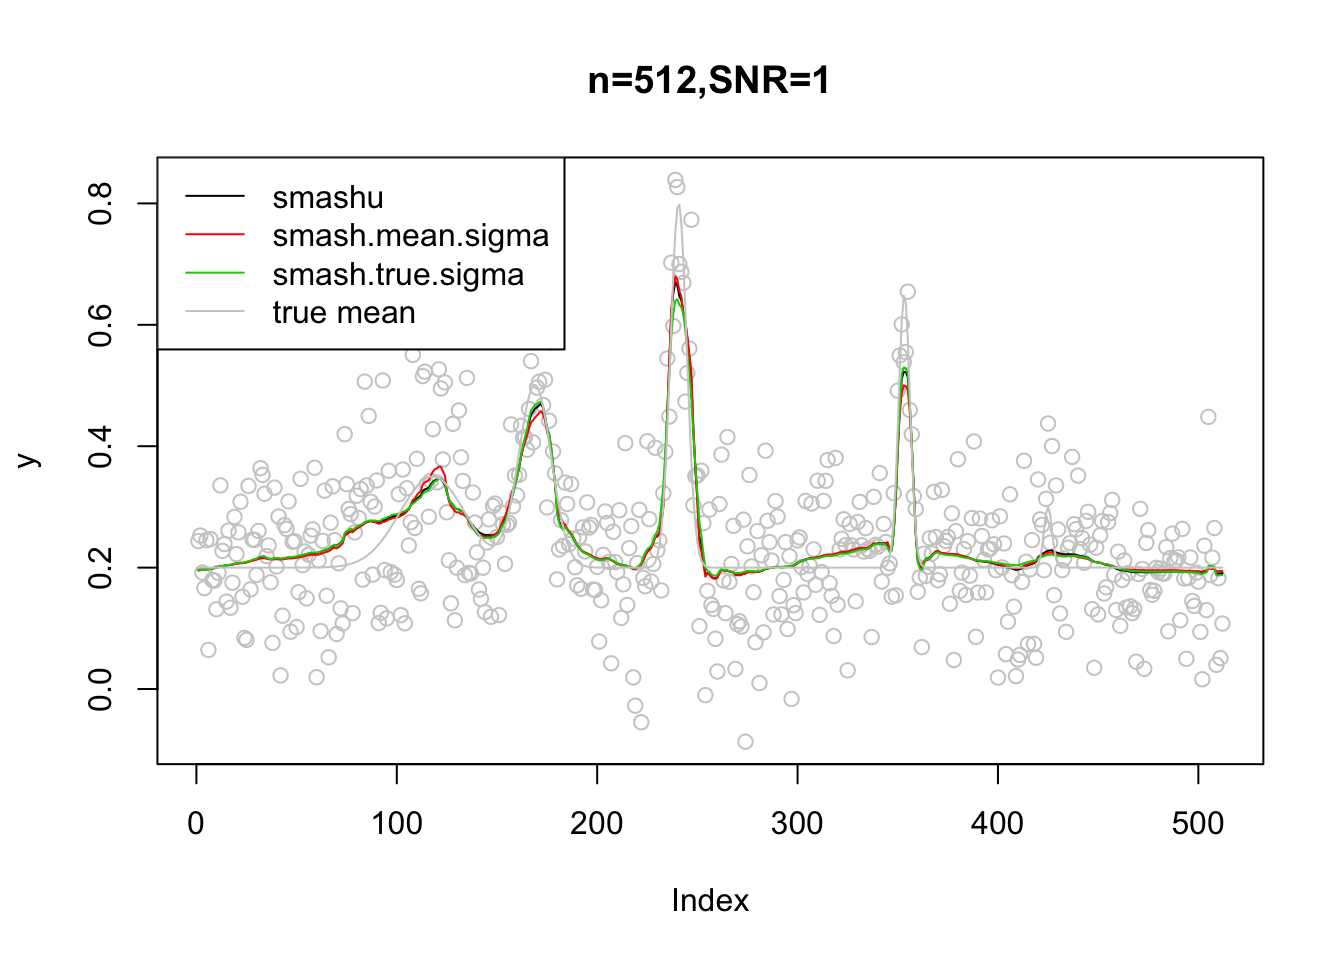
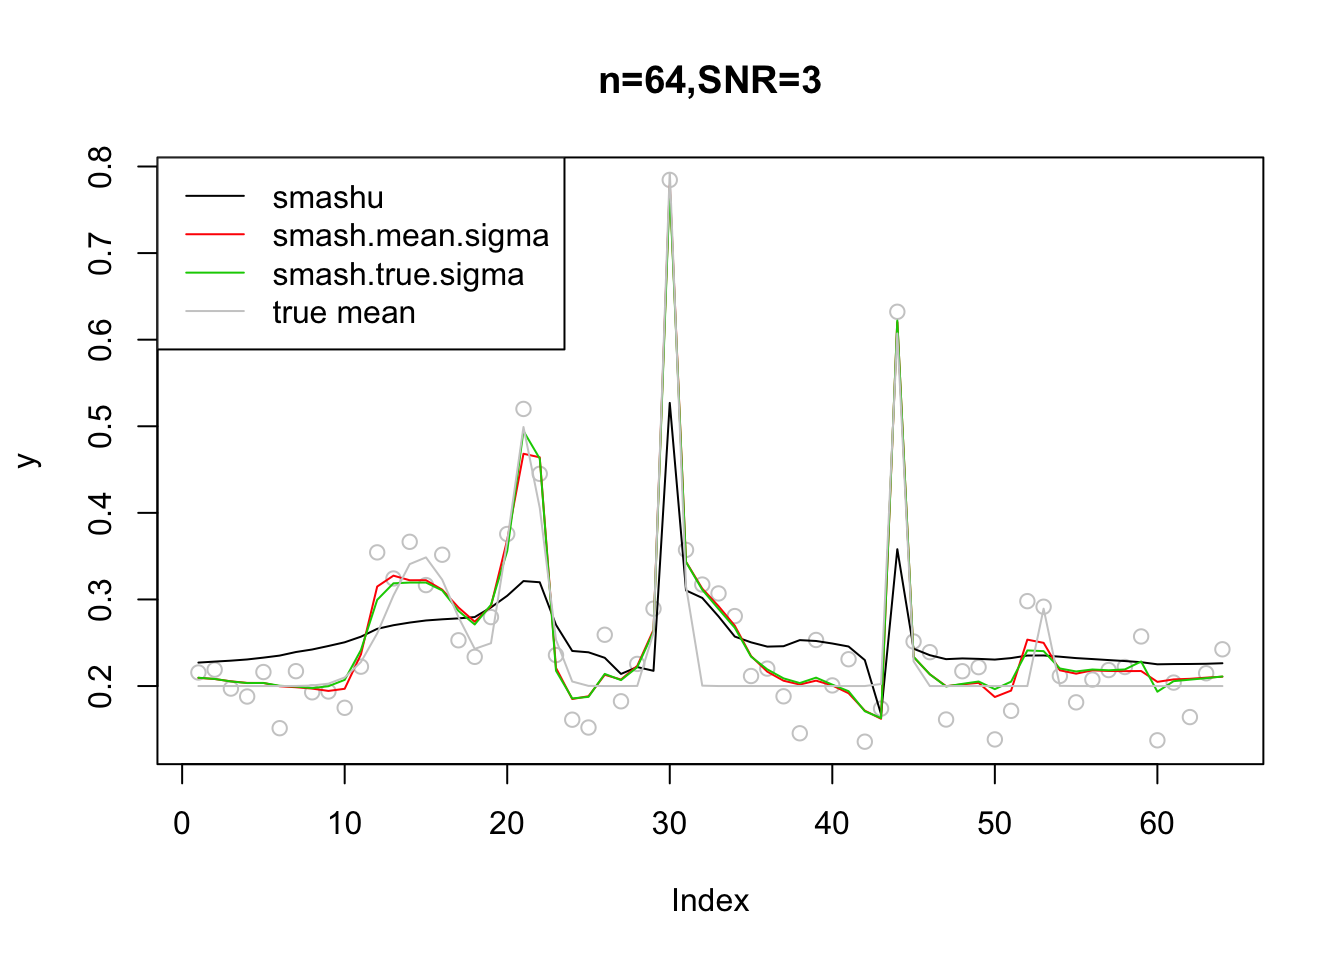
Build site.

diff --git a/docs/smashrobust.html b/docs/smashrobust.html
@@ -364,7 +364,7 @@ div.section {
 </details>
 </li>
 <li>
-<p><details> <summary> <strong style="color:blue;">✔</strong> <strong>Repository version:</strong> <a href="https://github.com/DongyueXie/smash-gen/tree/a8961315313b9029f9786fbdc484fa24d5af92cf" target="_blank">a896131</a> </summary></p>
+<p><details> <summary> <strong style="color:blue;">✔</strong> <strong>Repository version:</strong> <a href="https://github.com/DongyueXie/smash-gen/tree/4f4e8fc606af5fc158dda07ef3cc6acc7e2bea2d" target="_blank">4f4e8fc</a> </summary></p>
 Great! You are using Git for version control. Tracking code development and connecting the code version to the results is critical for reproducibility. The version displayed above was the version of the Git repository at the time these results were generated. <br><br> Note that you need to be careful to ensure that all relevant files for the analysis have been committed to Git prior to generating the results (you can use <code>wflow_publish</code> or <code>wflow_git_commit</code>). workflowr only checks the R Markdown file, but you know if there are other scripts or data files that it depends on. Below is the status of the Git repository when the results were generated:
 <pre><code>
 Ignored files:
@@ -405,6 +405,40 @@ Message
 </tr>
 </thead>
 <tbody>
+<tr>
+<td style="text-align:left;">
+Rmd
+</td>
+<td style="text-align:left;">
+<a href="https://github.com/DongyueXie/smash-gen/blob/4f4e8fc606af5fc158dda07ef3cc6acc7e2bea2d/analysis/smashrobust.Rmd" target="_blank">4f4e8fc</a>
+</td>
+<td style="text-align:left;">
+Dongyue Xie
+</td>
+<td style="text-align:left;">
+2018-10-02
+</td>
+<td style="text-align:left;">
+smash robust
+</td>
+</tr>
+<tr>
+<td style="text-align:left;">
+html
+</td>
+<td style="text-align:left;">
+<a href="https://cdn.rawgit.com/DongyueXie/smash-gen/aacfc46a0daa47a2fc194d4b986a7002f85784d8/docs/smashrobust.html" target="_blank">aacfc46</a>
+</td>
+<td style="text-align:left;">
+Dongyue Xie
+</td>
+<td style="text-align:left;">
+2018-10-02
+</td>
+<td style="text-align:left;">
+Build site.
+</td>
+</tr>
 <tr>
 <td style="text-align:left;">
 Rmd
@@ -526,15 +560,75 @@ lines(smash.gaus(y,sigma.t),col=3)
 lines(mu.t,col=&#39;grey80&#39;)
 legend(&#39;topleft&#39;,c(&#39;smashu&#39;,&#39;smash.mean.sigma&#39;,&#39;smash.true.sigma&#39;,&#39;true mean&#39;),col=c(1,2,3,&#39;grey80&#39;),lty=c(1,1,1,1))</code></pre>
 <p><img src="figure/smashrobust.Rmd/unnamed-chunk-2-1.png" width="672" style="display: block; margin: auto;" /></p>
+<details> <summary><em>Expand here to see past versions of unnamed-chunk-2-1.png:</em></summary>
+<table style="border-collapse:separate; border-spacing:5px;">
+<thead>
+<tr>
+<th style="text-align:left;">
+Version
+</th>
+<th style="text-align:left;">
+Author
+</th>
+<th style="text-align:left;">
+Date
+</th>
+</tr>
+</thead>
+<tbody>
+<tr>
+<td style="text-align:left;">
+<a href="https://github.com/DongyueXie/smash-gen/blob/aacfc46a0daa47a2fc194d4b986a7002f85784d8/docs/figure/smashrobust.Rmd/unnamed-chunk-2-1.png" target="_blank">aacfc46</a>
+</td>
+<td style="text-align:left;">
+Dongyue Xie
+</td>
+<td style="text-align:left;">
+2018-10-02
+</td>
+</tr>
+</tbody>
+</table>
+<p></details></p>
 <pre class="r"><code>plot(sqrt(smash.gaus(y,joint=T)$var.res),type=&#39;l&#39;,ylim=c(0.02,0.05),main=&#39;sigma&#39;)
 lines(rep(mean(sigma.t),n),col=2)
 lines(sigma.t,col=3)</code></pre>
 <p><img src="figure/smashrobust.Rmd/unnamed-chunk-2-2.png" width="672" style="display: block; margin: auto;" /></p>
+<details> <summary><em>Expand here to see past versions of unnamed-chunk-2-2.png:</em></summary>
+<table style="border-collapse:separate; border-spacing:5px;">
+<thead>
+<tr>
+<th style="text-align:left;">
+Version
+</th>
+<th style="text-align:left;">
+Author
+</th>
+<th style="text-align:left;">
+Date
+</th>
+</tr>
+</thead>
+<tbody>
+<tr>
+<td style="text-align:left;">
+<a href="https://github.com/DongyueXie/smash-gen/blob/aacfc46a0daa47a2fc194d4b986a7002f85784d8/docs/figure/smashrobust.Rmd/unnamed-chunk-2-2.png" target="_blank">aacfc46</a>
+</td>
+<td style="text-align:left;">
+Dongyue Xie
+</td>
+<td style="text-align:left;">
+2018-10-02
+</td>
+</tr>
+</tbody>
+</table>
+<p></details></p>
 <pre class="r"><code>mean(sigma.t)</code></pre>
 <pre><code>[1] 0.03185823</code></pre>
 <pre class="r"><code>mean(sqrt(smash.gaus(y,joint=T)$var.res))</code></pre>
 <pre><code>[1] 0.02924347</code></pre>
-<p>Decrease n to 64:</p>
+<p>Decrease n to 256:</p>
 <pre class="r"><code>n = 64
 t = 1:n/n
 spike.f = function(x) (0.75 * exp(-500 * (x - 0.23)^2) +
@@ -560,7 +654,7 @@ sigma.t = sqrt(var.fn)/mean(sqrt(var.fn)) * sd(mu.t)/rsnr^2
 
 set.seed(12345)
 y=mu.t+rnorm(n,0,sigma.t)
-plot(y,col=&#39;grey80&#39;,main=&#39;n=64,SNR=3&#39;)
+plot(y,col=&#39;grey80&#39;,main=&#39;n=256,SNR=3&#39;)
 lines(smash.gaus(y))
 lines(smash.gaus(y,mean(sigma.t)),col=2)
 lines(smash.gaus(y,sigma.t),col=3)
@@ -635,8 +729,8 @@ Dongyue Xie
 <pre><code>[1] 0.03423118</code></pre>
 <pre class="r"><code>mean(sqrt(smash.gaus(y,joint=T)$var.res))</code></pre>
 <pre><code>[1] 0.07396342</code></pre>
-<p>Decrease SNR:</p>
-<pre class="r"><code>n = 512
+<p>Decrease n to 64:</p>
+<pre class="r"><code>n = 64
 t = 1:n/n
 spike.f = function(x) (0.75 * exp(-500 * (x - 0.23)^2) +
             1.5  * exp(-2000 * (x - 0.33)^2) +
@@ -656,12 +750,12 @@ var.fn = (1e-04 + 4 * (exp(-550 * (t - 0.2)^2) +
 #plot(var.fn, type = &quot;l&quot;)
 
 # Set the signal-to-noise ratio.
-rsnr = sqrt(1)
+rsnr = sqrt(3)
 sigma.t = sqrt(var.fn)/mean(sqrt(var.fn)) * sd(mu.t)/rsnr^2
 
 set.seed(12345)
 y=mu.t+rnorm(n,0,sigma.t)
-plot(y,col=&#39;grey80&#39;,main=&#39;n=512,SNR=1&#39;)
+plot(y,col=&#39;grey80&#39;,main=&#39;n=64,SNR=3&#39;)
 lines(smash.gaus(y))
 lines(smash.gaus(y,mean(sigma.t)),col=2)
 lines(smash.gaus(y,sigma.t),col=3)
@@ -698,7 +792,7 @@ Dongyue Xie
 </tbody>
 </table>
 <p></details></p>
-<pre class="r"><code>plot(sqrt(smash.gaus(y,joint=T)$var.res),type=&#39;l&#39;,ylim=c(0.07,0.15),main=&#39;sigma&#39;)
+<pre class="r"><code>plot(sqrt(smash.gaus(y,joint=T)$var.res),type=&#39;l&#39;,ylim=c(0.01,0.08),main=&#39;sigma&#39;)
 lines(rep(mean(sigma.t),n),col=2)
 lines(sigma.t,col=3)</code></pre>
 <p><img src="figure/smashrobust.Rmd/unnamed-chunk-4-2.png" width="672" style="display: block; margin: auto;" /></p>
@@ -733,6 +827,47 @@ Dongyue Xie
 </table>
 <p></details></p>
 <pre class="r"><code>mean(sigma.t)</code></pre>
+<pre><code>[1] 0.03423118</code></pre>
+<pre class="r"><code>mean(sqrt(smash.gaus(y,joint=T)$var.res))</code></pre>
+<pre><code>[1] 0.07396342</code></pre>
+<p>Decrease SNR:</p>
+<pre class="r"><code>n = 512
+t = 1:n/n
+spike.f = function(x) (0.75 * exp(-500 * (x - 0.23)^2) +
+            1.5  * exp(-2000 * (x - 0.33)^2) +
+        3    * exp(-8000 * (x - 0.47)^2) + 
+            2.25 * exp(-16000 * (x - 0.69)^2) +
+        0.5  * exp(-32000 * (x - 0.83)^2))
+mu.s = spike.f(t)
+
+# Scale the signal to be between 0.2 and 0.8.
+mu.t = (1 + mu.s)/5
+#plot(mu.t, type = &quot;l&quot;,main=&#39;main function&#39;)
+
+# Create the baseline variance function. (The function V2 from Cai &amp;
+# Wang 2008 is used here.)
+var.fn = (1e-04 + 4 * (exp(-550 * (t - 0.2)^2) +
+  exp(-200 * (t - 0.5)^2) + exp(-950 * (t - 0.8)^2)))/1.35+1
+#plot(var.fn, type = &quot;l&quot;)
+
+# Set the signal-to-noise ratio.
+rsnr = sqrt(1)
+sigma.t = sqrt(var.fn)/mean(sqrt(var.fn)) * sd(mu.t)/rsnr^2
+
+set.seed(12345)
+y=mu.t+rnorm(n,0,sigma.t)
+plot(y,col=&#39;grey80&#39;,main=&#39;n=512,SNR=1&#39;)
+lines(smash.gaus(y))
+lines(smash.gaus(y,mean(sigma.t)),col=2)
+lines(smash.gaus(y,sigma.t),col=3)
+lines(mu.t,col=&#39;grey80&#39;)
+legend(&#39;topleft&#39;,c(&#39;smashu&#39;,&#39;smash.mean.sigma&#39;,&#39;smash.true.sigma&#39;,&#39;true mean&#39;),col=c(1,2,3,&#39;grey80&#39;),lty=c(1,1,1,1))</code></pre>
+<p><img src="figure/smashrobust.Rmd/unnamed-chunk-5-1.png" width="672" style="display: block; margin: auto;" /></p>
+<pre class="r"><code>plot(sqrt(smash.gaus(y,joint=T)$var.res),type=&#39;l&#39;,ylim=c(0.07,0.15),main=&#39;sigma&#39;)
+lines(rep(mean(sigma.t),n),col=2)
+lines(sigma.t,col=3)</code></pre>
+<p><img src="figure/smashrobust.Rmd/unnamed-chunk-5-2.png" width="672" style="display: block; margin: auto;" /></p>
+<pre class="r"><code>mean(sigma.t)</code></pre>
 <pre><code>[1] 0.0955747</code></pre>
 <pre class="r"><code>mean(sqrt(smash.gaus(y,joint=T)$var.res))</code></pre>
 <pre><code>[1] 0.09278895</code></pre>
@@ -740,7 +875,7 @@ Dongyue Xie
 <div id="summary" class="section level1">
 <h1>Summary</h1>
 <ol style="list-style-type: decimal">
-<li><code>smash.gaus</code> is sensitive to the scale of variance instead of the shape of variance.</li>
+<li><code>smash.gaus</code> is more sensitive to the scale of variance instead of the shape of variance.</li>
 <li>As long as n is large enough so that smash can give good estimation of scale of variance and roughly satifactory shape, then <code>smash.gaus</code> can still give similar mean estimation.</li>
 </ol>
 <div id="session-information" class="section level2">
